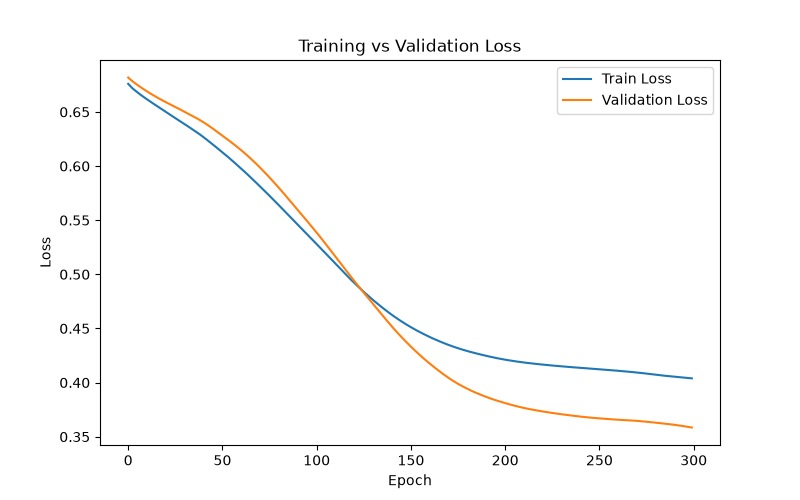
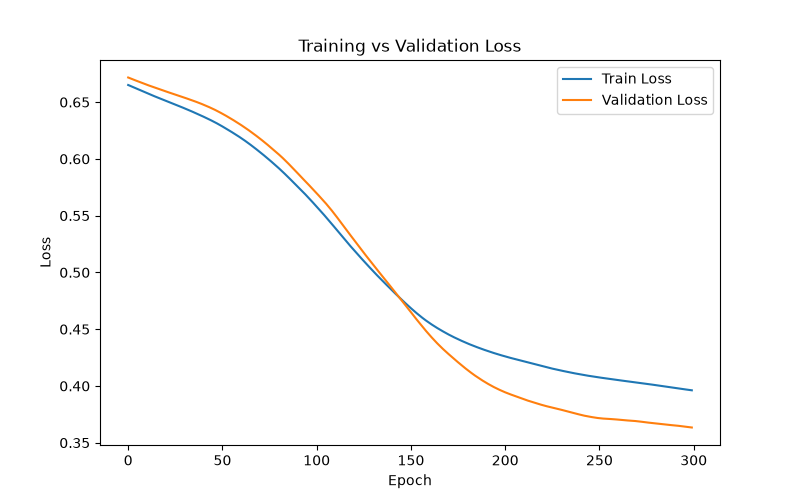
complete part 5 - evaluation metrics, Q1-Q3 answers

diff --git a/model.py b/model.py
@@ -2,6 +2,7 @@ import pandas as pd
 import torch
 from sklearn.preprocessing import StandardScaler
 from sklearn.model_selection import train_test_split
+from sklearn.metrics import accuracy_score, precision_score, recall_score, f1_score, confusion_matrix
 
 # --- Load and preprocess (repeating Part 1 pipeline) ---
 df = pd.read_csv("data/titanic.csv")
@@ -112,3 +113,24 @@ plt.savefig("plots/loss_curve.png")
 plt.close()
 
 print("Loss curve saved to plots/loss_curve.png")
+
+model.eval()
+with torch.no_grad():
+    test_outputs = model(X_test_t)
+    test_preds = (test_outputs >= 0.5).float()
+
+y_true = y_test_t.numpy()
+y_pred = test_preds.numpy()
+
+acc = accuracy_score(y_true, y_pred)
+prec = precision_score(y_true, y_pred)
+rec = recall_score(y_true, y_pred)
+f1 = f1_score(y_true, y_pred)
+cm = confusion_matrix(y_true, y_pred)
+
+print(f"\nTest Accuracy:  {acc:.4f}")
+print(f"Test Precision: {prec:.4f}")
+print(f"Test Recall:    {rec:.4f}")
+print(f"Test F1-score:  {f1:.4f}")
+print("\nConfusion Matrix:")
+print(cm)

diff --git a/answers.md b/answers.md
@@ -74,3 +74,44 @@ at 100 epochs (hadn't converged yet).
 - Val loss being lower than train loss is likely explained by the specific random
   train/val split (134 validation rows is a small sample) happening to contain a
   favorable/easier mix of cases, rather than any methodological issue.
+
+## Part 5: Model Evaluation
+
+**Test set results:**
+- Accuracy:  76.12%
+- Precision: 69.39%
+- Recall:    66.67%
+- F1-score:  68.00%
+
+**Confusion Matrix:**
+
+[[68 15]
+[17 34]]
+
+(TN=68, FP=15, FN=17, TP=34)
+
+**Interpretation:** 76.12% accuracy is meaningfully above the 61.6% naive baseline
+(always predicting "died"), confirming the model learned real patterns rather than
+just exploiting class imbalance. FN (17) slightly exceeds FP (15), meaning the model
+is marginally more prone to missing real survivors than falsely flagging non-survivors.
+
+**Question 1: Is accuracy alone sufficient to judge this model?**
+No. 76.12% accuracy looks solid in isolation, but it hides that the model missed
+17 of 51 actual survivors (a 33% miss rate on the positive class) — a weakness
+invisible from the accuracy number alone. Given the moderate class imbalance
+(61.6%/38.4%), accuracy can mask uneven performance across classes.
+
+**Question 2: What does the confusion matrix tell you?**
+It breaks down performance by error type, not just error count. Here it shows the
+model makes both false positive (15) and false negative (17) errors at similar
+rates, with a slight skew toward missing real survivors (FN > FP). This is more
+diagnostic than accuracy alone, since it shows *how* the model is wrong, not just
+how often.
+
+**Question 3: Which metric would you prioritize if missing a positive prediction
+was particularly costly?**
+Recall, since Recall = TP/(TP+FN) directly measures how many real positive cases
+are caught. Current recall is 66.67% — in a scenario where false negatives are
+costly, this would need improving, commonly by lowering the classification
+threshold below 0.5 (trading some precision for recall) or weighting the loss
+function to penalize false negatives more heavily.
